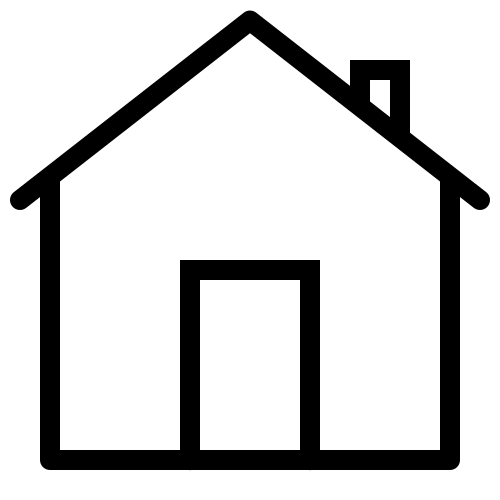
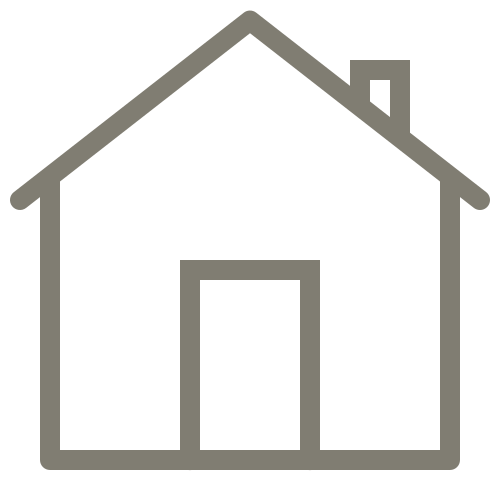
design

Changed region(s): [[0.0, 0.0, 0.99, 0.96]]

diff --git a/components/Chart.js b/components/Chart.js
@@ -5,7 +5,9 @@ import CloseIcon from './../images/CloseIconGray.png';
 import { Calendar, LocaleConfig } from 'react-native-calendars';
 import Logo from './../images/SmallLogo.png';
 import Alarm from './../images/AlarmIcon.png';
-import Home from './../images/HomeIconFilled.png';
+import Home from './../images/HomeIcon.png';
+import BackButton from './../images/BackIcon.png';
+import ChartIcon from './../images/ChartIconFilled.png';
 import Menu from './../images/MenuIcon.png';
 import FeedIcon from './../images/FeedIcon.png';
 import Setting from './../images/SettingIcon.png';
@@ -179,7 +181,9 @@ export default function Chart({navigation}) {
     return (
         <View style={styles.container}>
             <View style={styles.header}>
-                <View></View>
+                <TouchableOpacity onPress={()=>navigation.goBack()}>
+                    <Image style={styles.backButton} source={BackButton}/>
+                </TouchableOpacity>
                 <Image style={styles.logo} source={Logo}/>
                 <TouchableOpacity onPress={()=>{navigation.navigate('MyActivity')}}>
                     <Image style={styles.backButton} source={Alarm}/>
@@ -281,7 +285,7 @@ export default function Chart({navigation}) {
                     <Image style={styles.navicon} source={Home} />
                 </TouchableOpacity>
                 <TouchableOpacity>
-                    <Image style={styles.navicon} source={Chart} />
+                    <Image style={styles.navicon} source={ChartIcon} />
                 </TouchableOpacity>
                 <TouchableOpacity onPress={()=>{navigation.navigate('FeedListAll')}}>
                     <Image style={styles.navicon} source={FeedIcon} />
@@ -342,16 +346,17 @@ const styles = StyleSheet.create({
     navigationbar: {
         flexDirection: "row",
         justifyContent: "space-between",
-        // marginTop: 10,
-        marginBottom: 20,
-        position: 'absolute',
-        bottom: 0,
+        marginTop: 30,
+        // marginBottom: 20,
         paddingTop: 20,
         paddingHorizontal: width*0.1,
         borderTopColor: "#fafafa",
         borderTopWidth: 2,
         width: width,
-        zIndex: 99
+        height: 70,
+        position: 'absolute',
+        bottom: 0,
+        backgroundColor: '#FEFAE4',
     },
     navicon: {
         height: 20,

diff --git a/components/MyActivity.js b/components/MyActivity.js
@@ -135,7 +135,7 @@ export default function MyActivity({route, navigation}) {
                         if (item.type==='like'){
                             let id = item.feed
                             return(
-                                <TouchableOpacity style={styles.likeContent} onPress={()=>{navigation.navigate('Comment',{feed_id: {id}, uid: uid.uid})}}>
+                                <TouchableOpacity style={styles.likeContent} onPress={()=>{navigation.navigate('MyActivityComment',{feed_id: {id}, uid: uid.uid})}}>
                                         <Text style={styles.feedWritter}>{item.from}</Text>
                                         <Text style={styles.feedContent}>{item.title}</Text>
                                         <Text style={styles.feedTime}>{timeSince(item.timelapse)}전</Text>
@@ -260,19 +260,17 @@ const styles = StyleSheet.create({
     navigationbar: {
         flexDirection: "row",
         justifyContent: "space-between",
-        // marginTop: 30,
-        // height: 100,
-        backgroundColor: "white",
-        marginBottom: 20,
-        paddingTop: 10,
+        marginTop: 30,
+        // marginBottom: 20,
+        paddingTop: 20,
         paddingHorizontal: width*0.1,
         borderTopColor: "#fafafa",
         borderTopWidth: 2,
         width: width,
-        zIndex:99,
-        // position: "absolute"
+        height: 70,
         position: 'absolute',
         bottom: 0,
+        backgroundColor: '#FEFAE4',
     },
     contentWrapper: {
         height: height,
@@ -287,7 +285,7 @@ const styles = StyleSheet.create({
         flexDirection: "row",
         // marginHorizontal: 20,
         padding: 20,
-        borderBottomColor: "black", 
+        borderBottomColor: "#fafafa", 
         borderBottomWidth: StyleSheet.hairlineWidth,
         width: width,
         height: 70,
@@ -305,7 +303,7 @@ const styles = StyleSheet.create({
     commentContent: {
         // marginHorizontal: 20,
         padding: 20,
-        borderBottomColor: "black", 
+        borderBottomColor: "#fafafa", 
         borderBottomWidth: StyleSheet.hairlineWidth, 
         width: width, 
         height: 70,

diff --git a/components/Settings.js b/components/Settings.js
@@ -12,7 +12,7 @@ import Menu from './../images/MenuIcon.png';
 import Feed from './../images/FeedIcon.png';
 import Setting from './../images/SettingIconFilled.png';
 import Profile from './../images/ProfileIcon.png';
-import Alarm from './../images/AlarmIcon.png';
+import Alarm from './../images/AlarmIconBlack.png';
 import Write from './../images/WriteIcon.png';
 import Mail from './../images/MailIcon.png';
 import Document from './../images/DocumentIcon.png';
@@ -138,7 +138,7 @@ export default function Settings({route, navigation}) {
 
 const styles = StyleSheet.create({
     container:{
-        backgroundColor: '#fff',
+        backgroundColor: '#FEFAE4',
         flex: 1,
         width: width,
         height: height,
@@ -147,10 +147,10 @@ const styles = StyleSheet.create({
     header:{
         flexDirection: "row",
         justifyContent: "space-between",
-        marginTop: '12%',
+        marginTop: '10%',
         // marginBottom: 5,
         // paddingTop: 10,
-        // backgroundColor: '#FEFAE4',
+        backgroundColor: '#FEFAE4',
         paddingHorizontal: width*0.04,
         paddingBottom: 10,
         borderBottomColor: "#fafafa",
@@ -158,11 +158,12 @@ const styles = StyleSheet.create({
         width: width,
     },
     menuWrapper: {
-        height: height - 180,
+        height: height + 150,
         justifyContent: "flex-start",
         alignItems: "flex-start",
         position: "relative",
-        top: 20,
+        backgroundColor: '#FFF',
+        paddingTop: 25,
         // marginTop: '10%'
     },
     menuIcon: {
@@ -186,11 +187,15 @@ const styles = StyleSheet.create({
         flexDirection: "row",
         justifyContent: "space-between",
         marginTop: 30,
-        marginBottom: 20,
+        // marginBottom: 20,
         paddingTop: 20,
         paddingHorizontal: width*0.1,
         borderTopColor: "#fafafa",
         borderTopWidth: 2,
         width: width,
+        height: 70,
+        position: 'absolute',
+        bottom: 0,
+        backgroundColor: '#FEFAE4',
     },
 });

diff --git a/components/tutorial/Tutorial_2.js b/components/tutorial/Tutorial_2.js
@@ -193,16 +193,18 @@ const styles = StyleSheet.create({
     arrow: {
       height: 20,
       width: 6,
-      transform: [{ rotate: '-180deg' }],
+      transform: [{ rotate: '-225deg' }],
       position: "absolute",
       alignSelf: "center",
-      top: height*0.26,
+      top: height*0.27,
+      left: width * 0.575,
     },
     description: {
       color: "#25a7f0",
       position: "absolute",
       alignSelf: "center",
-      top: height*0.3,
+      top: height*0.29,
+      left: width * 0.62,
       width: 110,
       textAlign: "center",
     },
@@ -211,14 +213,14 @@ const styles = StyleSheet.create({
       width: 6,
       transform: [{ rotate: '-180deg' }],
       position: "absolute",
-      left: width*0.1,
-      top: height*0.17,
+      left: width*0.07,
+      top: height*0.12,
     },
     lockDescription: {
       color: "#25a7f0",
       position: "absolute",
-      left: width*0.03,
-      top: height*0.20,
+      left: width*0.02,
+      top: height*0.16,
       width: 60,
       textAlign: "center",
     },

diff --git a/App.js b/App.js
@@ -15,6 +15,7 @@ import FeedListAll from './components/FeedListAll';
 import FeedListSpecific from './components/FeedListSpecific';
 import Sidebar from './components/Settings';
 import Comment from './components/Comment';
+import MyActivityComment from './components/MyAcitivityComment';
 import MyActivity from './components/MyActivity';
 
 import ProfileSetting from './components/SidebarMenu/ProfileSetting';
@@ -77,6 +78,7 @@ export default function App(){
         {/* <Stack.Screen name="FeedListSpecific" component={FeedListSpecific} /> */}
         <Stack.Screen name="Settings" component={Sidebar} />
         <Stack.Screen name="Comment" component={Comment} />
+        <Stack.Screen name="MyActivityComment" component={MyActivityComment} />
         <Stack.Screen name="MyActivity" component={MyActivity} />
         <Stack.Screen name="ProfileSetting" component={ProfileSetting} />
         <Stack.Screen name="AlarmSetting" component={AlarmSetting} />

diff --git a/components/MyAcitivityComment.js b/components/MyAcitivityComment.js
@@ -22,7 +22,7 @@ import AngryIcon from './../images/AngryIcon.png';
 
 const { height, width } = Dimensions.get("window");
 
-export default function Comment({ route, navigation }) {
+export default function MyActivityComment({ route, navigation }) {
     const {feed_id} = route.params;
     const {uid} = route.params;
     let {commentNum} = route.params;
@@ -306,7 +306,7 @@ export default function Comment({ route, navigation }) {
         <View style={styles.container}>
             <StatusBar barStyle="dark-content"/>
             <View style={styles.header}>
-                <TouchableOpacity onPress={()=>{navigation.push('FeedListAll')}}>
+                <TouchableOpacity onPress={()=>{navigation.goBack()}}>
                     <Image style={styles.backButton} source={BackButton}/>
                 </TouchableOpacity>
                 <Text style={styles.headerContent}>댓글</Text>

diff --git a/components/Calendar.js b/components/Calendar.js
@@ -469,15 +469,17 @@ const styles = StyleSheet.create({
     navigationbar: {
       flexDirection: "row",
       justifyContent: "space-between",
-      // marginTop: 10,
-      marginBottom: 20,
-      position: 'absolute',
-      bottom: 0,
+      marginTop: 30,
+      // marginBottom: 20,
       paddingTop: 20,
       paddingHorizontal: width*0.1,
       borderTopColor: "#fafafa",
       borderTopWidth: 2,
       width: width,
+      height: 70,
+      position: 'absolute',
+      bottom: 0,
+      backgroundColor: '#FEFAE4',
     },
     backButton: {
       height: 20,

diff --git a/components/FeedNew.js b/components/FeedNew.js
@@ -337,7 +337,7 @@ const styles = StyleSheet.create({
         padding: 20,
         fontSize: 14,
         marginTop: 20,
-        width: width*0.85,
+        width: width*1.02,
         // textAlign: "center",
         // position: "relative",
         // left: -30,

diff --git a/components/tutorial/Tutorial_1.js b/components/tutorial/Tutorial_1.js
@@ -352,7 +352,7 @@ const styles = StyleSheet.create({
       borderWidth: 3,
       borderColor: "#fff",
       position: "absolute",
-      top: height*0.405,
+      top: height*0.43,
       alignSelf: "center",
     },
     description: {

diff --git a/components/FeedListAll.js b/components/FeedListAll.js
@@ -241,6 +241,7 @@ export default function FeedListAll({ route, navigation }) {
     useEffect(()=>{
         _storeUid();
         _storeNickname();
+        _loadFeed();
     },[])
     // console.log(allFeeds);
 
